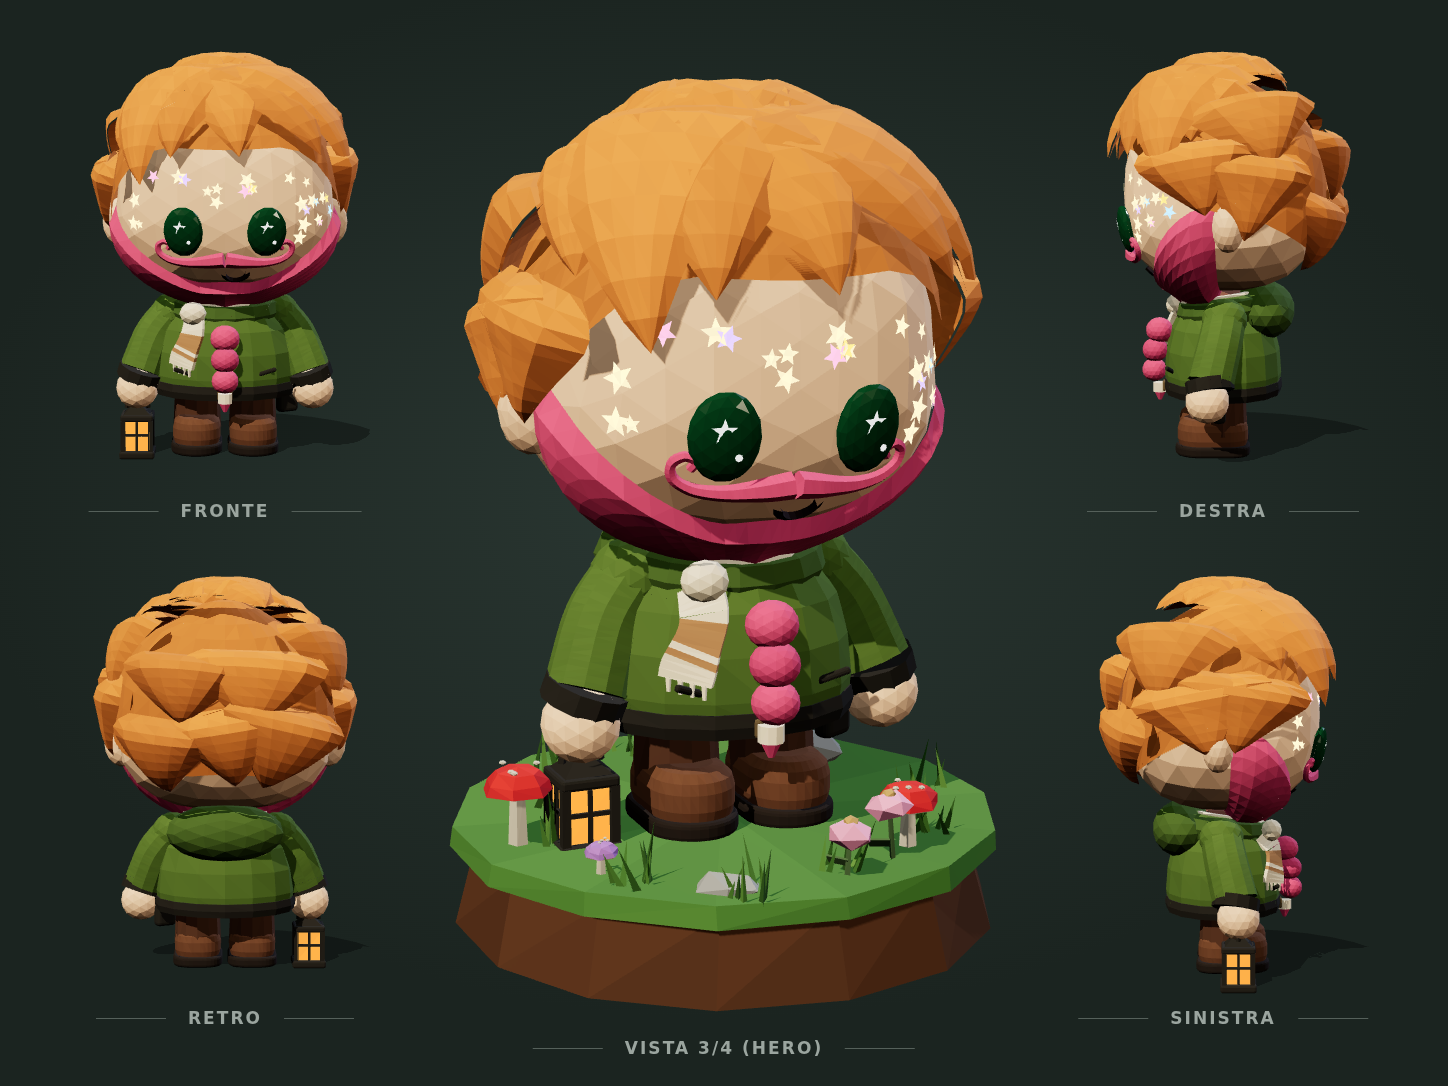
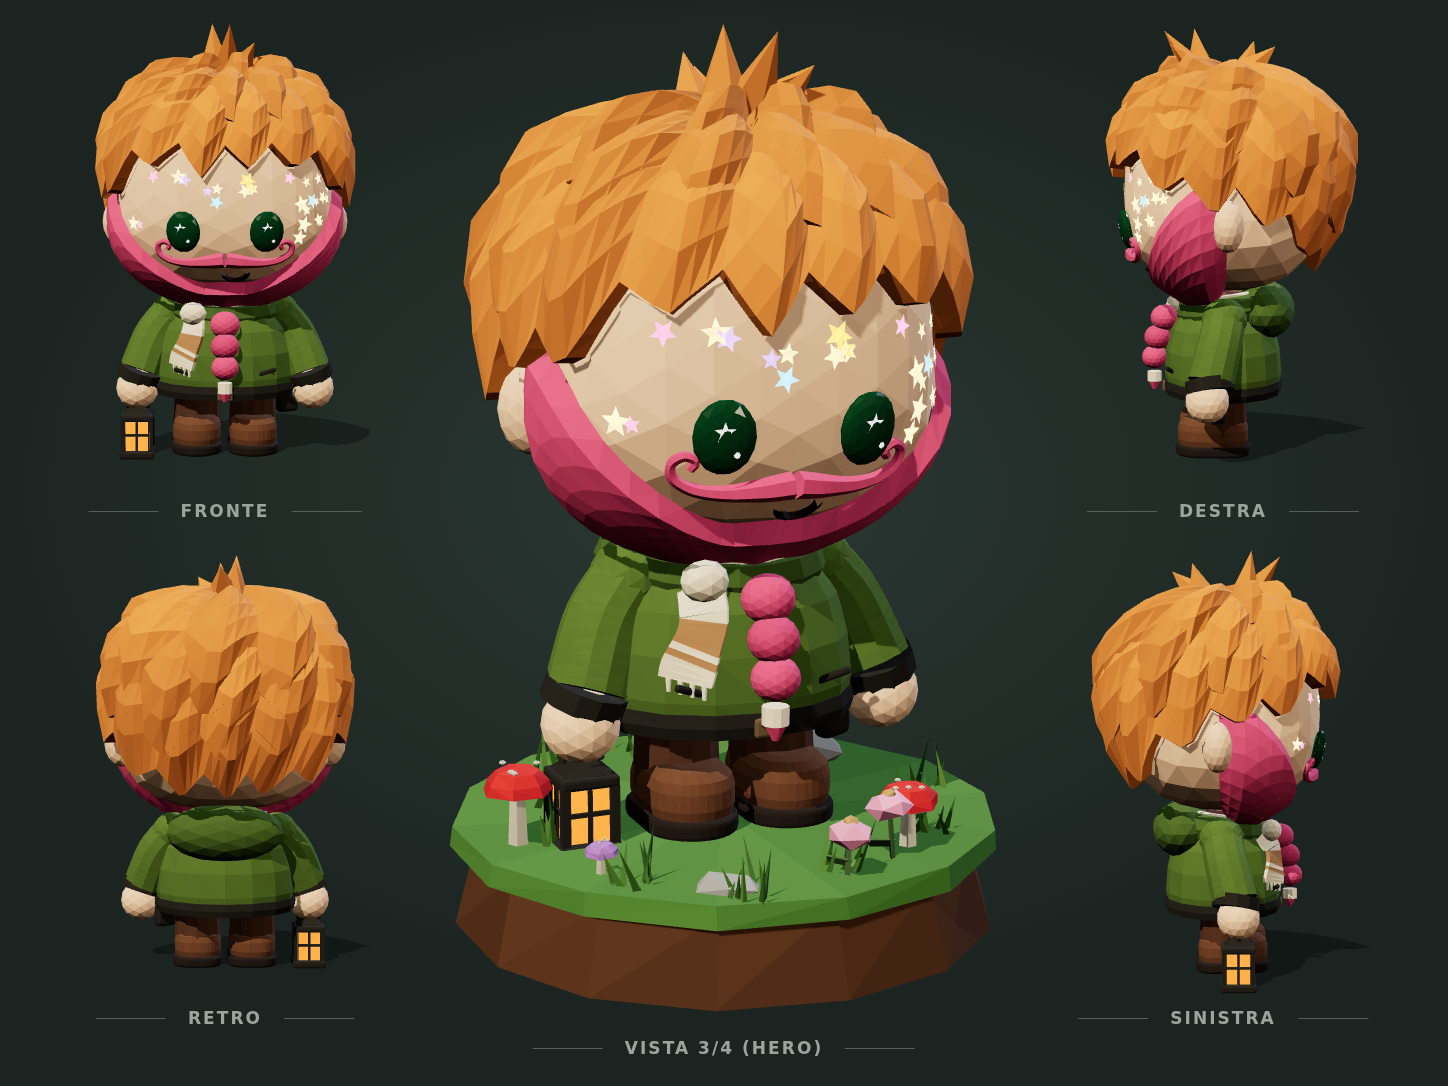
Style prototype v2, ninth pass: layered hair helmet, beard to the temple, braid from the beard tip
- hair rebuilt as the concept shows it: a full helmet wider than the skull,
  three stacked closed shells with a jagged hem (one point per lock) and a
  per-lock ridge flowing down from the crown with a slight swirl; fringe on
  the forehead, above the ears on the sides, nape at the back, a few spiky
  tufts on top; locks are part of the volume, nothing can float
- beard band climbs the cheek to the hair at the temple, medium thickness on
  the sides, full wedge under the chin
- braid built in the beard's space, first bead starting at the wedge tip
- eyes smaller again; audit updated

Claude-Session: https://claude.ai/code/session_01U6u5RojYrwYjZd8sSRU7em

diff --git a/Prototype-3d/src/proto/custodeV2.ts b/Prototype-3d/src/proto/custodeV2.ts
@@ -211,9 +211,9 @@ const rbox = (w: number, h: number, d: number, r: number, seg = 2) => new Rounde
 const EYE_Y = 0.707, EYE_X = 0.1;
 const absDeg = (th: number) => Math.abs(Math.atan2(Math.sin(th), Math.cos(th))) / DEG; // 0 davanti, 180 dietro
 /** Dove arrivano le punte dei capelli (φ in gradi): poco sopra gli occhi davanti, sopra le orecchie ai lati, alla nuca dietro. */
-const hairTip = (th: number) => { const a = absDeg(th); return a < 90 ? lerp(20, -12, smooth(30, 90, a)) : lerp(-12, -34, smooth(90, 160, a)); }; // ai lati scende fin sopra l'orecchio, dietro alla nuca
+const hairTip = (th: number) => { const a = absDeg(th); return a < 90 ? lerp(20, 0, smooth(30, 90, a)) : lerp(0, -32, smooth(90, 160, a)); }; // ai lati scende fin sopra l'orecchio, dietro alla nuca
 /** Bordo superiore della barba (φ in gradi): sotto la bocca davanti, sale lungo la mandibola fino all'orecchio. */
-const beardTop = (thDeg: number) => lerp(-54, -6, smooth(18, 82, Math.abs(thDeg))); // davanti appena sotto la bocca // sale lungo la guancia e raggiunge i capelli davanti all'orecchio
+const beardTop = (thDeg: number) => lerp(-54, 6, smooth(16, 86, Math.abs(thDeg))); // davanti appena sotto la bocca, ai lati sale fino ai capelli alla tempia // sale lungo la guancia e raggiunge i capelli davanti all'orecchio
 
 function head(lp: LP) {
   lp.add(headGeo(), SKIN, { ...O, ao: 0.05 });
@@ -249,14 +249,14 @@ function beard(lp: LP) {
   const outer: THREE.Vector3[][] = [], inner: THREE.Vector3[][] = [], norms: THREE.Vector3[][] = [];
   for (let i = 0; i <= NU; i++) {
     outer.push([]); inner.push([]); norms.push([]);
-    const u = -1 + (2 * i) / NU, th = u * 86;
+    const u = -1 + (2 * i) / NU, th = u * 92;
     for (let j = 0; j <= NV; j++) {
       const v = j / NV; // 0 sotto il mento, 1 bordo superiore
       const { p, n } = headAt(th * DEG, lerp(-84, beardTop(th), v) * DEG);
       const side = smooth(0, 0.12, 1 - Math.abs(u));
       const center = 0.35 + 0.65 * Math.pow(1 - Math.abs(u), 1.4);
       const low = Math.pow(1 - v, 2);
-      const t = side * smooth(0, 0.06, 1 - v) * (0.012 + 0.016 * center + 0.075 * low * center); // sottile ai lati, piena al mento
+      const t = side * smooth(0, 0.06, 1 - v) * (0.018 + 0.012 * center + 0.075 * low * center); // fascia media ai lati, cuneo pieno al mento
       // sotto il mento la massa va anche in avanti, non solo lungo la normale
       const dir = n.clone().add(new THREE.Vector3(0, -0.15, 0.55).multiplyScalar(low * center)).normalize();
       inner[i].push(p.clone());
@@ -272,26 +272,27 @@ function beard(lp: LP) {
 }
 
 /** Punto (coordinate della testa, prima della scala) da cui pende la treccia. */
-function braidAnchor(): THREE.Vector3 {
-  // punto più basso e avanzato della massa del mento (stesso calcolo della barba, u = 0, v = 0)
+/**
+ * Treccia che esce dalla punta della barba (stesso spazio della testa): il
+ * primo grano è dentro la massa del mento, gli altri scendono toccandosi.
+ * Restano davanti alla giacca (convertendo le quote nello spazio del corpo).
+ */
+function braid(lp: LP) {
   const { p, n } = headAt(0, -84 * DEG);
   const dir = n.clone().add(new THREE.Vector3(0, -0.15, 0.55)).normalize();
-  return p.addScaledVector(dir, 0.012 + 0.016 + 0.075);
-}
-
-/** Treccia: tre grani uguali impilati, fermaglio color panna e punta. */
-function braid(lp: LP, top: THREE.Vector3) {
-  // il primo grano parte dentro la massa del mento; scendendo la treccia resta
-  // davanti alla giacca (si sposta in avanti quanto serve)
-  const R0 = 0.046, STEPY = 0.068;
-  const zAt = (y: number, r: number) => Math.max(top.z - 0.02, jacketR(y) * 0.82 + r * 0.85);
+  const tip = p.addScaledVector(dir, 0.012 + 0.016 + 0.075 - 0.02); // appena dentro la punta della barba
+  const R0 = 0.036, STEPY = 0.052;
+  const zMin = (y: number, r: number) => (jacketR(HEAD_T.y + HEAD_S * y) * 0.82 + r * HEAD_S * 0.9) / HEAD_S;
+  let y = tip.y, z = tip.z;
   for (let i = 0; i < 3; i++) {
-    const r = R0 - i * 0.002, y = top.y - 0.02 - i * STEPY;
-    lp.blob(top.x, y, zAt(y, r), r * 1.05, r * 0.95, r, i % 2 ? '#c94f75' : BEARD, { ...O, detail: 2 } as LPOpts);
+    const r = R0 - i * 0.0015;
+    z = Math.max(z - 0.004, zMin(y, r));
+    lp.blob(0, y, z, r * 1.05, r * 0.95, r, i % 2 ? '#c94f75' : BEARD, { ...O, detail: 2 } as LPOpts);
+    y -= STEPY;
   }
-  const ty = top.y - 0.02 - 3 * STEPY + 0.022, tz = zAt(ty, 0.024);
-  lp.cyl(top.x, ty - 0.03, tz, 0.024, 0.024, 0.032, 10, SCARF, O);
-  lp.cyl(top.x, ty - 0.058, tz, 0.006, 0.02, 0.028, 8, BEARD, O);
+  y += STEPY - 0.04;
+  lp.cyl(0, y - 0.024, z, 0.019, 0.019, 0.026, 10, SCARF, O);
+  lp.cyl(0, y - 0.046, z, 0.005, 0.016, 0.022, 8, BEARD, O);
 }
 
 
@@ -314,50 +315,71 @@ function moustache(lp: LP) {
  * sovrapposte a scaglie (ogni fila copre la radice di quella sotto), più
  * qualche ciuffetto dritto in cima.
  */
-function hair(lp: LP) {
-  const rnd = prng(31);
-  const tone = (k: number) => `#${new THREE.Color(HAIR).offsetHSL(0, 0, k).getHexString()}`;
-  // la calotta è il volume vero dei capelli (sottile al bordo, piena in cima):
-  // le ciocche ci si appoggiano sopra, così non sembrano staccate dalla testa
-  // calotta: sottile sui lati (solo per non lasciare pelle tra le ciocche), più piena
-  // in cima, dove riempie le fessure tra le radici delle ciocche
-  const capT = (_th: number, phD: number) => 0.01 + 0.04 * smooth(55, 88, phD);
-  sheet(lp, 36, 10, (u, v) => { const th = Math.PI + u * Math.PI; return [th, lerp(hairTip(th) + 3, 89.5, v) * DEG]; }, (u, v) => {
-    const th = Math.PI + u * Math.PI;
-    return capT(th, lerp(hairTip(th) + 3, 89.5, v));
-  }, tone(-0.07)); // appena più scura: tra una ciocca e l'altra si legge il solco
-  // poche ciocche grandi e scompigliate (come nel concept): una frangia, due
-  // giri attorno (lati e nuca) con ciocche corte che arrivano dove serve, e
-  // qualche ciuffo in cima che punta in direzioni diverse
-  const LEN = 38;
-  const ring = (n: number, tipOf: (th: number) => number, w: number, phase: number, seed: number) => {
-    for (let k = 0; k < n; k++) {
-      const th0 = (k + phase) * (360 / n) + (rnd() - 0.5) * 14;
-      const front = absDeg(th0 * DEG) < 50;
-      if (front && seed === 0) continue; // davanti c'è la frangia
-      const tip = tipOf(th0) - rnd() * 7;
-      const swing = (rnd() - 0.5) * 22; // scompigliate: ognuna piega per conto suo
-      lock(lp, {
-        th0, th1: th0 + swing, ph0: Math.min(86, tip + LEN + (rnd() - 0.5) * 8), ph1: tip,
-        w: w * (0.85 + rnd() * 0.3), t: 0.07 + rnd() * 0.015, base: 0.008 + seed * 0.01, lift: 0.004, // punte appoggiate: niente fessure in ombra
-        col: tone([0.03, -0.025, 0.05, 0.005, -0.04][(k + seed) % 5]),
-      });
+/**
+ * Strato del "casco" di capelli: un guscio pieno (faccia esterna, faccia
+ * interna sulla testa, parete lungo il bordo) che va dal bordo fino in cima.
+ * Il bordo è seghettato (una punta per ciocca) e la superficie ha un rilievo
+ * per ciocca che scende dal vortice girando un poco: le ciocche fanno parte
+ * del volume, non possono staccarsi.
+ */
+function hairLayer(lp: LP, o: { locks: number; hem: (thDeg: number) => number; depth: number; lift: number; thick: number; phase: number; swirl: number; seed: number; tone: (k: number) => string }) {
+  const rnd = prng(o.seed);
+  const jitter = Array.from({ length: o.locks }, () => [0.75 + rnd() * 0.5, (rnd() - 0.5) * 0.3, rnd()]); // lunghezza, asimmetria, tono
+  const NU = o.locks * 6, NV = 9;
+  const P: THREE.Vector3[][] = [], Q: THREE.Vector3[][] = [], Nn: THREE.Vector3[][] = [], lockOf: number[] = [];
+  for (let i = 0; i <= NU; i++) {
+    const u = i / NU, f = (u * o.locks + o.phase) % o.locks, k = Math.floor(f), w = f - k;
+    const [len, skew] = jitter[k];
+    // dente di sega: punta al centro della ciocca (spostata un po' di lato)
+    const c = 0.5 + skew, tooth = w < c ? w / c : (1 - w) / (1 - c);
+    const ridge = Math.sin(Math.PI * Math.min(1, Math.max(0, w))); // rilievo al centro della ciocca
+    lockOf.push(k);
+    P.push([]); Q.push([]); Nn.push([]);
+    for (let j = 0; j <= NV; j++) {
+      const v = j / NV; // 0 bordo, 1 cima
+      const thD = u * 360 + o.swirl * v;
+      const hem = o.hem(thD) - o.depth * len * tooth;
+      const phD = lerp(hem, 89, Math.pow(v, 0.85));
+      const { p, n } = headAt(thD * DEG, phD * DEG);
+      const t = o.thick * (0.55 + 0.45 * ridge) * smooth(0, 0.25, v + 0.05 * tooth) + o.lift * (1 - v) * (1 - v);
+      P[i].push(p.clone().addScaledVector(n, 0.006 + t));
+      Q[i].push(p.clone().addScaledVector(n, 0.004));
+      Nn[i].push(n);
     }
-  };
-  ring(10, (th) => hairTip(th * DEG) - 2, 0.21, 0, 0);            // giro basso: lati e nuca
-  ring(8, (th) => hairTip(th * DEG) + 30, 0.22, 0.5, 1);         // giro alto
-  // frangia: cinque ciocche grandi che cadono sulla fronte, un po' di traverso
-  for (let k = 0; k < 5; k++) {
-    const th0 = -50 + k * 25 + (rnd() - 0.5) * 8;
-    lock(lp, { th0, th1: th0 + 10 + (rnd() - 0.5) * 16, ph0: 82, ph1: hairTip(th0 * DEG) - rnd() * 6, w: 0.22 * (0.9 + rnd() * 0.2), t: 0.07, base: 0.03, lift: 0.012 + rnd() * 0.016, col: tone([0.04, -0.01, 0.025, -0.03, 0.015][k]) });
   }
-  // vortice in cima: un piccolo ciuffo pieno da cui partono le ciocche (niente fessure al centro)
-  lp.blob(0, C.y + R.y * 0.98, -0.02, 0.09, 0.045, 0.09, tone(0.01), { ...O, detail: 1 } as LPOpts);
-  // cima: ciocche che si aprono dal vortice in direzioni diverse
-  for (let k = 0; k < 7; k++) {
-    const th0 = k * 51 + (rnd() - 0.5) * 24;
-    lock(lp, { th0, th1: th0 + (rnd() - 0.5) * 40, ph0: 87, ph1: 58 - rnd() * 8, w: 0.2, t: 0.07, base: 0.05, lift: 0.006, col: tone([0.045, 0.01, 0.03, -0.015, 0.02][k % 5]) });
+  const tr: Tris[] = [new Tris(), new Tris(), new Tris()];
+  for (let i = 0; i < NU; i++) {
+    const t = tr[Math.floor(jitter[lockOf[i]][2] * 3)];
+    for (let j = 0; j < NV; j++) t.quad(P[i][j], P[i + 1][j], P[i + 1][j + 1], P[i][j + 1], Nn[i][j]);
+    // parete del bordo: chiude il guscio verso la testa
+    t.quad(P[i][0], P[i + 1][0], Q[i + 1][0], Q[i][0], Nn[i][0].clone().negate().add(new THREE.Vector3(0, -1, 0)));
   }
+  tr.forEach((t, k) => lp.add(t.geo(), o.tone([0.035, 0, -0.03][k]), { ...O, vary: 0.04 }));
+}
+
+/**
+ * Capelli come nel concept: un casco pieno, più largo del cranio, fatto di
+ * strati di ciocche appuntite che scendono dal vortice; bordo seghettato
+ * (frangia sulla fronte, sopra le orecchie ai lati, nuca dietro) e qualche
+ * ciuffo a punta che sale dalla cima.
+ */
+function hair(lp: LP) {
+  const tone = (k: number) => `#${new THREE.Color(HAIR).offsetHSL(0, 0, k).getHexString()}`;
+  const tip = (thD: number) => hairTip(thD * DEG);
+  // dal basso in alto: ogni strato ha il bordo più in alto e sta sopra a quello sotto
+  hairLayer(lp, { locks: 15, hem: (t) => tip(t) + 4, depth: 13, lift: 0.03, thick: 0.05, phase: 0, swirl: 14, seed: 3, tone });
+  hairLayer(lp, { locks: 12, hem: (t) => tip(t) + 26, depth: 15, lift: 0.04, thick: 0.065, phase: 0.5, swirl: 18, seed: 7, tone });
+  hairLayer(lp, { locks: 9, hem: (t) => tip(t) + 48, depth: 16, lift: 0.05, thick: 0.08, phase: 0.2, swirl: 22, seed: 11, tone });
+  // ciuffi a punta che salgono dalla cima (radicati dentro il casco)
+  const rnd = prng(5);
+  [[-25, 0.13, -0.5], [5, 0.15, 0.1], [30, 0.12, 0.55], [175, 0.11, 0.3], [-160, 0.1, -0.4]].forEach(([th, h, lean], k) => {
+    const { p, n } = headAt(th * DEG, 78 * DEG);
+    const base = p.addScaledVector(n, 0.05);
+    const axis = n.clone().add(new THREE.Vector3(Math.sin(th * DEG), 0, Math.cos(th * DEG)).multiplyScalar(0.6 + lean)).normalize();
+    const g = new THREE.ConeGeometry(0.045 + rnd() * 0.012, h, 5).translate(0, h / 2, 0);
+    g.applyQuaternion(new THREE.Quaternion().setFromUnitVectors(new THREE.Vector3(0, 1, 0), axis));
+    lp.add(g.translate(base.x, base.y, base.z), tone([0.04, 0.015, 0.03, 0, 0.02][k]), { ...O, vary: 0.04 });
+  });
 }
 
 const JACKET_D = '#4c652a';
@@ -524,11 +546,11 @@ function eyes(): THREE.Group {
     const e = new THREE.Group();
     e.position.copy(p.addScaledVector(n, 0.004));
     e.rotation.set(-Math.asin(n.y), Math.atan2(n.x, n.z), 0, 'YXZ');
-    const ball = new THREE.Mesh(new THREE.IcosahedronGeometry(1, 2).scale(0.0486, 0.0612, 0.02), mat);
+    const ball = new THREE.Mesh(new THREE.IcosahedronGeometry(1, 2).scale(0.042, 0.051, 0.018), mat);
     ball.castShadow = true;
     e.add(ball);
-    const st = new THREE.Mesh(star(0.018, 0.42), shine); st.position.set(-0.004, 0.014, 0.019); e.add(st);
-    const dot = new THREE.Mesh(new THREE.CircleGeometry(0.0054, 8), shine); dot.position.set(0.016, -0.022, 0.018); e.add(dot);
+    const st = new THREE.Mesh(star(0.015, 0.42), shine); st.position.set(-0.003, 0.012, 0.017); e.add(st);
+    const dot = new THREE.Mesh(new THREE.CircleGeometry(0.0046, 8), shine); dot.position.set(0.014, -0.019, 0.016); e.add(dot);
     g.add(e);
   }
   return g;
@@ -541,10 +563,9 @@ export function buildCustodeV2(): CustodeV2 {
     // testa (con faccia, barba, baffi e capelli) più grande del 30%, scalata
     // attorno al mento: resta appoggiata sul colletto
     lp.push([0, HEAD_T.y, 0], 0, 0, 0, HEAD_S);
-    head(lp); glitter(lp); beard(lp); moustache(lp); hair(lp);
+    head(lp); glitter(lp); beard(lp); braid(lp); moustache(lp); hair(lp);
     lp.pop();
     // la treccia pende davanti alla giacca (prima finiva dietro il nodo della sciarpa)
-    braid(lp, braidAnchor().multiplyScalar(HEAD_S).add(HEAD_T)); // il primo grano entra nella barba
     body(lp); arm(lp, -1); arm(lp, 1);
     lantern(lp, -0.296);
   }, 'proto:custode-v2');

diff --git a/Prototype-3d/docs/audit-stile-custode-v2.md b/Prototype-3d/docs/audit-stile-custode-v2.md
@@ -70,6 +70,12 @@ Ottava passata:
 - **Treccia:** il primo grano parte dentro la massa del mento, quindi è attaccata in alto.
 - **Occhi:** più piccoli del 10%.
 
+Nona passata (capelli e barba ripensati guardando bene il concept):
+- **Capelli:** un "casco" pieno, più largo del cranio, fatto di tre strati sovrapposti. Ogni strato è un guscio chiuso con il bordo seghettato (una punta per ciocca) e un rilievo per ciocca che scende dal vortice girando un poco. Le ciocche fanno parte del volume, quindi non possono staccarsi. Il bordo forma la frangia sulla fronte, scende sopra le orecchie ai lati e alla nuca dietro; in cima ci sono alcuni ciuffi a punta. È anche più leggero (meno triangoli).
+- **Barba:** la fascia sale lungo la guancia fino ai capelli alla tempia, ha spessore medio ai lati e si chiude in un cuneo pieno sotto il mento.
+- **Treccia:** costruita nello stesso spazio della barba; il primo grano parte dalla punta del cuneo e gli altri scendono toccandosi.
+- **Occhi:** ancora più piccoli.
+
 ## Prestazioni su telefono (app Capacitor)
 
 Con Capacitor il gioco gira nel WebView del sistema (WKWebView su iOS, WebView di Chrome su Android): le prestazioni sono quelle del browser del telefono. Che il gioco funzioni offline non cambia nulla, perché il lavoro lo fanno GPU e CPU del dispositivo.
@@ -115,7 +121,7 @@ Il lavoro vero è **rifare le opzioni di personalizzazione** nel nuovo stile, ci
 |---|---|---|---|
 | Custode attuale, look base | 7.450 | 7 | — |
 | Custode attuale, look ricco (ricci lunghi, treccia, manubrio, monocolo, brillantini) | 17.370 | 9 | ~126 ms |
-| Prototipo v2 (completo, con lanterna) | 18.000 | 8 | ~40 ms |
+| Prototipo v2 (completo, con lanterna) | 15.000 | 8 | ~35 ms |
 
 Il v2 costa più o meno quanto un look ricco di oggi, ed è più veloce da generare perché la testa è un ellissoide. Diviso nelle parti del rig resterebbe a circa 8–10 draw call. Per il solo Custode non ci sono problemi di prestazioni.
 
